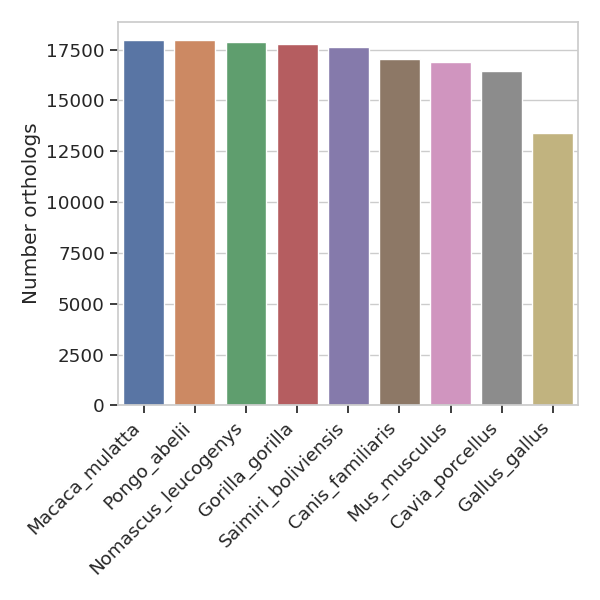
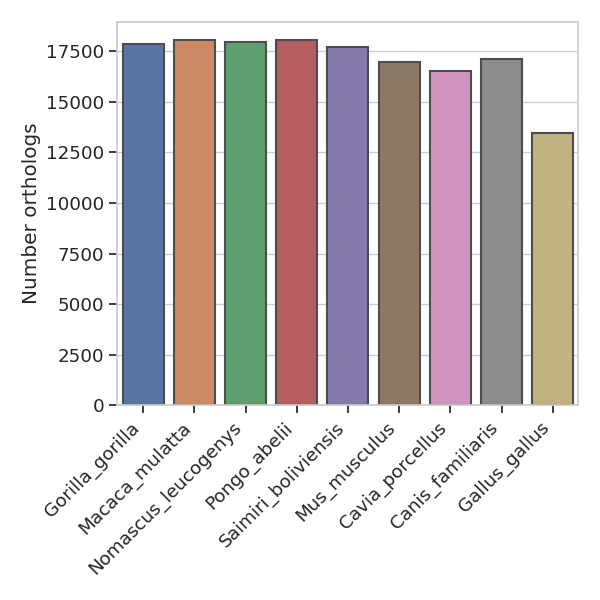
Jaccard ncCheck

diff --git a/ncOrtho/check/core_synteny.py b/ncOrtho/check/core_synteny.py
@@ -4,61 +4,121 @@ import os
 import pandas as pd
 import matplotlib.pyplot as plt
 import seaborn as sns
-
-import ncOrtho.coreset.coreset_utils as cu
-
-
-def neighbors(prot, anno, anchordist):
-    if prot not in anno:  # pseudogenes are not in parsed annotation file but can occur in ortholog file
-        return None
-    chrom, position = anno[prot]
-    anchors = []
-    for index in range(position - anchordist, position + anchordist + 1):
-        if index not in anno[chrom]:  # if gene positioned at end of contig, no more anchors can be considered
-            continue
-        anchor, a_start, a_end, a_strand = anno[chrom][index]
-        anchors.append(anchor)
-    anchors.remove(prot)
-    return anchors
+import yaml
 
 
-def synteny_distance(block, ref_prot, coreanno, orthodict, anchordist, corespecies):
-    """
-    returns: Number of conserved anchors per number of anchors
-    """
-    o = []
+def parse_yaml(path):
+    p_dict = {}  # {<name>: {'orthologs': <path>, 'genome': <path>, 'annotation': <path>}}
+    paths = []
+    refdict = {}
+    with open(path, 'r') as param_handle:
+        params = yaml.load_all(param_handle, Loader=yaml.FullLoader)
+        for entry in params:
+            in_type = entry.pop('type')
+            if in_type == 'reference':
+                refdict['annotation'] = entry['annotation']
+                refdict['geneset'] = entry['geneset']
+            elif in_type == 'core':
+                species = entry.pop('name')
+                p_dict[species] = entry
+            paths.extend([entry['annotation'], entry['geneset']])
 
-    # find position of reference protein orthologs in core species
-    reforthos = orthodict[ref_prot]
-    for refortho in reforthos:
-        if refortho not in coreanno:  # pseudogenes are not in parsed annotation file but can occur in ortholog file
-            continue
-        conserved_anchors = 0
-        chrom, position = coreanno[refortho]
+        return p_dict, refdict, paths
 
-        # find position of anchor protein orthologs in core species
-        for anchor in block:
 
-            # find orthologs of anchor proteins
-            if anchor not in orthodict:  # synteny not fulfilled if no ortholog in core species
-                # c.append(0)
+def read_ortho_tsv(path):
+    orthod = {}
+    allhumanids = set()
+    with open(path) as fh:
+        for line in fh:
+            if line.startswith('#'):
                 continue
-            anchor_ortho_list = orthodict[anchor]
-            for anchor_ortho in anchor_ortho_list:
-                if anchor_ortho not in coreanno:  # e.g. for pseudogenes
-                    # c.append(0)
-                    continue
+            human_protid, core_protid = line.strip().split()
+            if not human_protid in orthod:
+                orthod[human_protid] = []
+            if not core_protid in orthod:
+                orthod[core_protid] = []
+            orthod[human_protid].append(core_protid)
+            orthod[core_protid].append(human_protid)
+            allhumanids.add(human_protid)
+    return orthod, allhumanids
 
-                a_chrom, a_position = coreanno[anchor_ortho]
-                # if distance to reference protein is similar in core species than in reference species, accept
-                if a_chrom == chrom and abs(int(position) - int(a_position)) <= anchordist:
-                    conserved_anchors += 1
-                    break
 
-                # c.append(0)
-        # o.append(sum(c) / len(c))
-        o.append([corespecies, refortho, conserved_anchors])
+def geneorder_from_gff(path, proteinset):
+    """
+    Read gene order from GFF file. Will only collect order of genes for which an ortholog was searched
+
+    returns:
+        orderpercontig = {contig: [gene1, gene2, gene3], ...}
+        contigperid = {gene1: contig, ...}
+    """
+    orderpercontig = {}
+    contigperid = {}
+    lastcontig = ''
+    with open(path) as fh:
+        for line in fh:
+            if line.startswith('#'):
+                continue
+            data = line.strip().split('\t')
+            if data[2] != 'CDS':
+                continue
+            contig = data[0]
+            if contig != lastcontig:
+                orderpercontig[contig] = []
+                lastcontig = contig
+            protid = data[-1].split('-')[1].split('.')[0]
+
+            if orderpercontig[contig] and orderpercontig[contig][-1] == protid:  # do not add duplicates
+                continue
+            if protid in proteinset:
+                orderpercontig[contig].append(protid)
+                contigperid[protid] = contig
+    return orderpercontig, contigperid
+
+
+def geneset_from_file(path):
+    if path.split('.')[-1] in ['fasta', 'fa', 'faa']:
+        o = set()
+        with open(path) as fh:
+            for line in fh:
+                if line.startswith('>'):
+                    o.add(line.split('.')[0].replace('>', ''))
+    else:
+        with open(path) as fh:
+            o = [line.strip() for line in fh if line]
+            o = set(o)
     return o
+
+
+def neighbors(protid, orderpercontig, contigperid, k):
+    contig = contigperid[protid]
+    orderlist = orderpercontig[contig]
+    position = orderlist.index(protid)
+    # print(contig, position)
+    leftflank = orderlist[position - k:position]
+    rightflank = orderlist[position + 1:position + k + 1]
+    # print(leftflank)
+    # print(rightflank)
+
+    return leftflank, rightflank
+
+
+def orthomapper(referencelist, orthodict):
+    o = []
+    for prot in referencelist:
+        if prot not in orthodict:
+            continue
+        o.extend(orthodict[prot])
+    return o
+
+
+def jaccard_similarity(list1, list2):
+    intersection = len(list(set(list1).intersection(list2)))
+    union = (len(set(list1)) + len(set(list2))) - intersection
+    if union == 0:
+        return union
+    else:
+        return float(intersection) / union
 
 
 def main():
@@ -88,18 +148,18 @@ def main():
         help='Path for the output folder'
     )
     optional.add_argument(
-        '-k, --max_anchor_dist', metavar='int', type=int,
+        '-k', '--max_anchor_dist', metavar='int', type=int,
         help='Number of additional genes to the left and right '
              'of the reference miRNA that are to be considered as syntenic anchors. (Default: 3)',
         nargs='?', const=3, default=3
     )
-    optional.add_argument(
-        '--idtype', metavar='str', type=str,
-        help='Choose the ID in the reference gff file that is '
-             'compared to the IDs in the pairwise orthologs file (default:GeneID) '
-             'Options: ID, Name, GeneID, CDS',
-        nargs='?', const='ID=', default='ID'
-    )
+    # optional.add_argument(
+    #     '--idtype', metavar='str', type=str,
+    #     help='Choose the ID in the reference gff file that is '
+    #          'compared to the IDs in the pairwise orthologs file (default:GeneID) '
+    #          'Options: ID, Name, GeneID, CDS',
+    #     nargs='?', const='ID=', default='ID'
+    # )
     optional.add_argument(
         '--outformat', metavar='str', type=str,
         help='Choose format for output figures, as accepted by matplotlib package (Default: png)',
@@ -112,65 +172,71 @@ def main():
     else:
         args = parser.parse_args()
 
-    # parameters
-    add_pos_orthos = args.max_anchor_dist
-    idtype = args.idtype
 
-    core_dict, ref_paths, all_paths = cu.parse_yaml(args.parameters)
-    # check if files exist
-    # for cp in all_paths:
-    #    if not os.path.isfile(cp):
-    #        raise ValueError(f'{cp} does not exist')
-
-    ref_anno_dict = cu.gff_parser(ref_paths['annotation'], 'ID')
-    print('# Reading pairwise orthologs', flush=True)
-    if idtype == 'CDS':
-        ortho_dict = cu.pairwise_orthologs_from_cds(core_dict, ref_paths['annotation'])
-    else:
-        ortho_dict = cu.read_pairwise_orthologs(core_dict)
+    core_paths, ref_paths, all_paths = parse_yaml(args.parameters)
+    ref_protset = geneset_from_file(ref_paths['geneset'])
+    ref_orderpercontig, ref_contigperid = geneorder_from_gff(ref_paths['annotation'], ref_protset)
+    print('# Reading reference annotation done', flush=True)
 
     syn_col = []
     ortho_col = []
-    print('# Checking synteny conservation', flush=True)
-    for corespec, pairwiseorthos in ortho_dict.items():
+    for corespecies, pathdict in core_paths.items():
+        print(corespecies)
+        pairwise_orthos, allrefids = read_ortho_tsv(pathdict['orthologs'])
+        ortho_col.append([corespecies, len(allrefids)])
 
-        core_col = []
-        print(corespec)
-        ortho_col.append([corespec, len(pairwiseorthos.keys())])
+        core_protset = geneset_from_file(pathdict['geneset'])
+        core_orderpercontig, core_contigperid = geneorder_from_gff(pathdict['annotation'], core_protset)
 
-        core_anno_dict = cu.gff_parser(core_dict[corespec]['annotation'], 'ID')
-
-        for refprot in pairwiseorthos.keys():
-            syn_block = neighbors(refprot, ref_anno_dict, add_pos_orthos)
-            if not syn_block:  # in rare case that reference protein from orthology file is not found in annotation
+        for refprot in allrefids:
+            # check if an ortholog was found for the protein in the reference species
+            if not refprot in pairwise_orthos:
+                syn_col.append([corespecies, refprot, None])
                 continue
-            syn_fullfilled_list = synteny_distance(syn_block, refprot, core_anno_dict, pairwiseorthos, add_pos_orthos,
-                                                   corespec)
-            syn_col.extend(syn_fullfilled_list)
 
-    orth = pd.DataFrame(ortho_col, columns=['species', 'Number orthologs'])
-    orth = orth.sort_values(by='Number orthologs', ascending=False)
-    o = orth.species.values
+            # find position and neighbors of reference protein
+            if refprot not in ref_contigperid:  # rare cases of protein.rep.fa and genomic.gff not matching up
+                continue
+            ref_left, ref_right = neighbors(refprot, ref_orderpercontig, ref_contigperid, args.max_anchor_dist)
+
+            # map neighboring genes to orthologs in core species
+            ref_ortho_left = orthomapper(ref_left, pairwise_orthos)
+            ref_ortho_right = orthomapper(ref_right, pairwise_orthos)
+
+            # find position and neighbors of the (co-)ortholog to the reference protein in the core species
+            coreproteins = pairwise_orthos[refprot]
+            for coreprot in coreproteins:
+                core_left, core_right = neighbors(coreprot, core_orderpercontig, core_contigperid, args.max_anchor_dist)
+
+                reflist = ref_ortho_left + ref_ortho_right
+                corelist = core_left + core_right
+
+                ji = jaccard_similarity(reflist, corelist)
+                syn_col.append([corespecies, refprot, ji])
+
+
     sns.set(rc={'figure.figsize': (6, 6), 'ytick.left': True, 'xtick.bottom': True}, font_scale=1.2, style='whitegrid')
-    sns.barplot(data=orth, x='species', y='Number orthologs')
+    orth = pd.DataFrame(ortho_col, columns=['species', 'Number orthologs'])
+    sns.barplot(data=orth, x='species', y='Number orthologs', edgecolor="0.3", linewidth=1.5)
     plt.xticks(rotation=45, ha='right')
     plt.xlabel('')
     plt.tight_layout()
     plt.savefig(f'{args.output}/ortholog_distribution.{args.outformat}')
 
 
-    plt.clf()
-    plt.figure(figsize=(12, 4))
-    df = pd.DataFrame(syn_col, columns=['species', 'reference_protein', 'num_conserved_anchors'])
-    sns.set(rc={'figure.figsize': (12, 4), 'ytick.left': True, 'xtick.bottom': True}, font_scale=1.2, style='whitegrid')
-    ax = sns.histplot(data=df, x='num_conserved_anchors', hue='species', discrete=True, multiple='dodge', hue_order=o,
-                      shrink=0.8)
-    sns.move_legend(ax, "upper left", bbox_to_anchor=(1, 1))
-    plt.xlabel(f'Number of conserved anchors in neighborhood k={add_pos_orthos}')
+    plt.figure(figsize=(6, 6))
+    sns.set(rc={'figure.figsize': (6, 6), 'ytick.left': True, 'xtick.bottom': True}, font_scale=1.2, style='whitegrid')
+    df = pd.DataFrame(syn_col, columns=['species', 'reference_protein', 'jaccard_index'])
+    df.to_csv(f'{args.output}/conserved_synteny.tsv', sep='\t', index=False)
+    sns.boxplot(data=df, x='species', y='jaccard_index', linewidth=1.5)
+    plt.xlabel('')
+    # plt.title(f'Flanking gene window size = {max_anchor_dist}')
+    plt.ylabel(f'Jaccard Similarity (k = {args.max_anchor_dist})')
+    plt.xticks(rotation=45, ha='right')
     plt.tight_layout()
     plt.savefig(f'{args.output}/anchor_conservation.{args.outformat}')
-    print(f'# Finished. Output created at: {args.output}')
 
+    print(f'# Finished. Output created at: {args.output}')
 
 if __name__ == '__main__':
     main()
